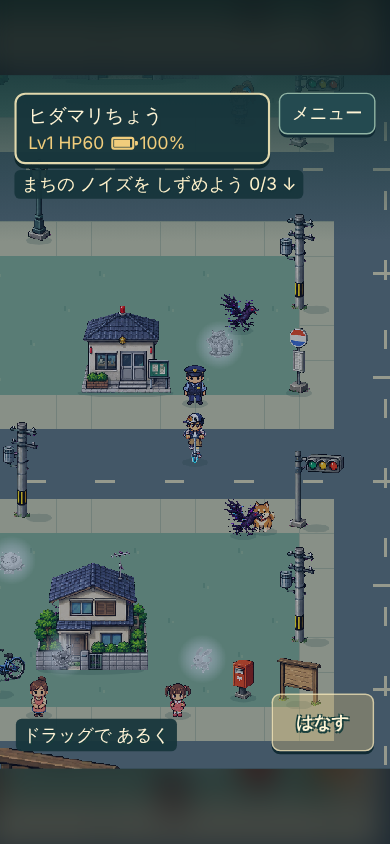
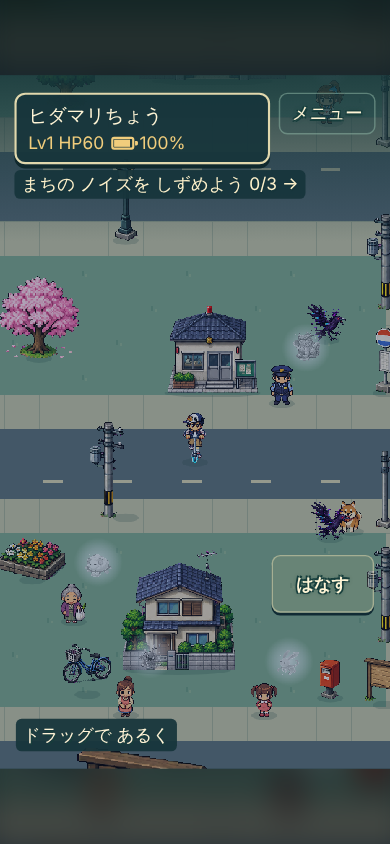
R203: 配達の人も街灯の上に乗って見えたので東へずらし、テストを強めた

diff --git a/v5/data/ch1.js b/v5/data/ch1.js
@@ -29,11 +29,12 @@ maps.town={name:'ヒダマリちょう',w:30,h:36,outside:true,spawn:[6,25.5],ob
  ...props('edge',2,100,Array.from({length:14},(_,i)=>[1.2+i*2.1,1.9]),{collider:false}),
  ...props('tree',0,130,[[2.6,5,1],[10.9,5.2],[2.8,7.8],[2,15,1],[27,12.5],[27.3,21,1],[0.9,35.2],[11.3,32.4,1]]),
  ...props('signal',12,110,[[12.5,8.9],[17.5,11.9],[17.5,16.9],[12.5,19.9],[17.5,25.9],[12.5,29.9]]),
- // R203: the pole across the road from the police box stood right under the police officer, who read as standing on its top (mobile-24), so it sits left of the police box.
+ // R203: the delivery man by the electric shop also stood right over light1's top across the road, so he moved two tiles east on his sidewalk (people list below).
+ // R203: the pole across the road from the police box stood right under the police officer, who read as standing on its top (mobile-24), so it moved west along that far sidewalk (down-left of the police box).
  ...props('pole',7,130,[[12.5,4],[12.5,13.6],[12.5,23.2],[17.5,32.4],[4.5,19.6],[27.5,11.6]]),
  // R198: a pole or street light right under a signal on the same sidewalk read as one tall post (mobile-16), so they keep a gap; the short walk between the two signals by the electric shop has no light.
  ...props('light',5,120,[[17.5,4.6],[17.5,22.6],[12.5,33],[4.5,11.6],[24.5,29.6]]),
- ...[['mother',4.5,25.3,{event:'mother'}],['sister',8.5,25.3,{event:'sister'}],['grandpa',7.4,33.2],['worker',19.4,34.6],['student',20,25.4],['police',9,16.3,{event:'police'}],['dog',11,20],['cat',26,25],['grandma',3,22.6],['delivery',18,19.3],['kid',9.3,33.4,{event:'kid'}],['hacker',20,11.3,{event:'hacker'}],['shrine',24.4,34.4],['musician',10.6,34.6]].map(([id,x,y,extra])=>person(id,x,y,extra))],
+ ...[['mother',4.5,25.3,{event:'mother'}],['sister',8.5,25.3,{event:'sister'}],['grandpa',7.4,33.2],['worker',19.4,34.6],['student',20,25.4],['police',9,16.3,{event:'police'}],['dog',11,20],['cat',26,25],['grandma',3,22.6],['delivery',20,19.3],['kid',9.3,33.4,{event:'kid'}],['hacker',20,11.3,{event:'hacker'}],['shrine',24.4,34.4],['musician',10.6,34.6]].map(([id,x,y,extra])=>person(id,x,y,extra))],
  enemies:[{id:'v1',type:'vending',x:19,y:21.6,axis:'y'},{id:'c1',type:'crow',x:10.4,y:21.4,axis:'y'},{id:'p1',type:'popup',x:19.4,y:13.6,axis:'y'},{id:'c2',type:'crow',x:10.3,y:13.6,axis:'y'},{id:'v2',type:'vending',x:25.5,y:21.6,axis:'y'}],portals:[]};
 // Terrain grid: . grass, = road, + sidewalk, : sand, ~ water. Rows 0-1 are the hedge edge; rows 30-35 hold the park and the apartments.
 // Later towns can supply their own tile rows without changing movement/rendering.

diff --git a/autodev/last_run.md b/autodev/last_run.md
@@ -1,10 +1,10 @@
-- 町の電柱の絵の右に、切れた電線の黒い点が約20個残っていた
-- 絵を読み込む時に、ななめも含めてつながらない12画素以下の点だけを消した
-- 点が消え、電柱と腕は残ることをテストに足した
+- 町の交番の前で、おまわりさんが電柱の上に立って見えた
+- 道の向こうの電柱を、同じ歩道のまま西へ4マス移した
+- 配達の人も街灯の上に乗って見えたので、東へ2マスずらし、テストを足した
 次: 遊んで一番気になる所を1つ直す（くりかえし）
-時刻: 2026-10-24 10:46
-- 前と後のスクショ: v5/verification/R202_town-pole_before.png / _after.png
-- 確認役が一番に挙げたネオンの丸屋根が表示枠に隠れる件は、自動確認がマップの真ん中に立たせた時だけで、駅から着いた時は見えるので直さなかった
-- 確認役が挙げた候補: 町の右下ではなすボタンが信号と人を隠す、ミナモの友だちの家で主人公と友だちが重なる
+時刻: 2026-10-24 11:40
+- 前と後のスクショ: v5/verification/R203_town-police-pole_before.png / _after.png と R203_town-delivery-light_before.png / _after.png
+- 配達の人は、足したテスト（人の真下1マス以内の柱のてっぺんが48px以上下）で見つかった
+- 確認役が挙げた候補: でんきやのテレビの山が奥の壁にかかる、部屋のかけ時計が壁の所に浮く、こうえんの看板が家より大きい、ヒカクマオウ戦のソラのヒントが枠の右はしに近い
+- 1章の始めの画面では、移した電柱のてっぺんがクエストの札の下に入る。札の下には前から物が入るので、そのままにした
 - ブラウザの確認は手元の Chromium で全章を撮った（エラーなし）
-- 確認役の指摘で、電柱のふちの1画素が消えないよう8方向でつなぎ、テストを電柱の画素数が変わらないことまで見るようにした

diff --git a/autodev/ROADMAP.md b/autodev/ROADMAP.md
@@ -207,7 +207,7 @@
 - [x] R200 | 塔1〜3階で、セーブたんまつの名札が「うえへ」の札に重ならないようにする | R199 で台を下げた後、たんまつの前で上を向くと名札（drawTags）が「うえへ」の字を隠す。たんまつか札の位置を変え、敵の通り道（y=6.6）をふさがない。テスト tools/test_v5.cjs の debugWarp('tower2',8.4,3.6) を台の外（4.1など）にする。前と後のスクショがある
 - [x] R201 | 塔の床のマスの間に木の床の色が見えてマス目のようだったので、すき間を暗くした | tools/smoke_v5.cjs で全章を通し、スクショを確認役に見せて気になる所を挙げさせ、一番大きい1つを直す。直した所の前と後のスクショがある
 - [x] R202 | 町の電柱の絵の右に黒い点が散って、絵がこわれて見えたので、読み込む時に点を消した | tools/smoke_v5.cjs で全章を通し、スクショを確認役に見せて気になる所を挙げさせ、一番大きい1つを直す。直した所の前と後のスクショがある
-- [ ] R203 | 遊んで一番気になる所を1つ直す | tools/smoke_v5.cjs で全章を通し、スクショを確認役に見せて気になる所を挙げさせ、一番大きい1つを直す。直した所の前と後のスクショがある
+- [x] R203 | 町の交番の前で、おまわりさんが道の向こうの電柱のてっぺんに乗って見えたので、電柱を西へ移した。配達の人と街灯も同じだったので、人を東へずらした | tools/smoke_v5.cjs で全章を通し、スクショを確認役に見せて気になる所を挙げさせ、一番大きい1つを直す。直した所の前と後のスクショがある
 
 ## くりかえし
 
